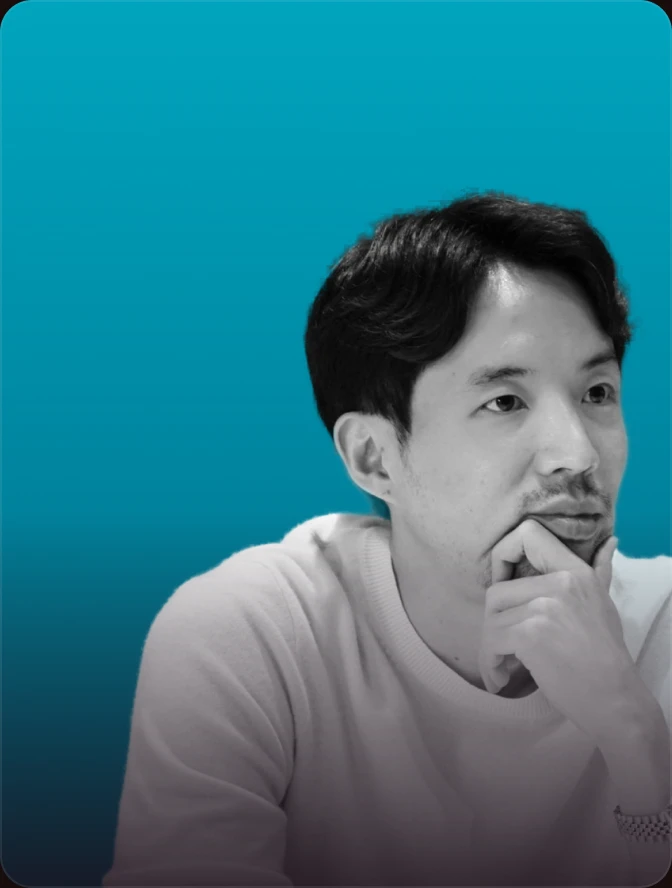
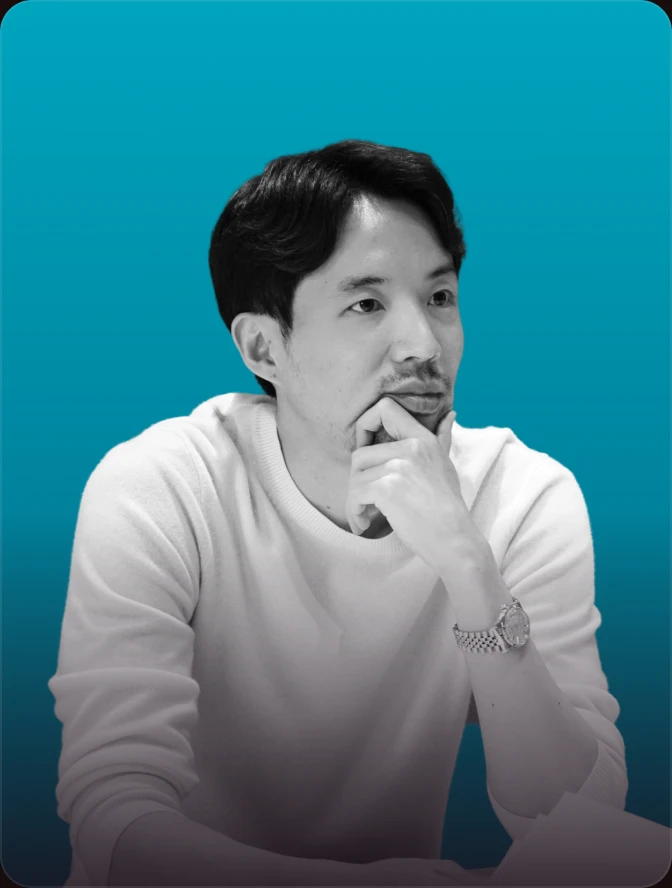
라인업: SMCC 북다이브·요가 카드 사진을 피그마 수정본으로
Claude-Session: https://claude.ai/code/session_01R7psaqm8m7GEAGGww3SgQz

diff --git a/index.html b/index.html
@@ -974,7 +974,7 @@ try{ if('scrollRestoration' in history) history.scrollRestoration='manual'; }cat
   const cardHTML=(r,clone)=>{ const ti=clone?' tabindex="-1" aria-hidden="true"':'';
     if(r[0]==='soon') return `<a class="l-card soon" href="${BOOKL}" target="_blank" rel="noopener"${ti}><div class="l-top"><span>LINEUP</span><b>COMING SOON</b></div><div class="soon-mid"><svg viewBox="0 0 24 24" width="44" height="44" aria-hidden="true"><path d="M12 1.5C12.7 7.4 16.6 11.3 22.5 12C16.6 12.7 12.7 16.6 12 22.5C11.3 16.6 7.4 12.7 1.5 12C7.4 11.3 11.3 7.4 12 1.5Z" fill="#fff"/></svg><h3>더 많은 연사가<br>곧 공개됩니다</h3></div><div class="l-bottom"><span class="l-book">롱진콘 신청하기 ↗</span></div></a>`;
     const [f,n,d,c,dt,t,[x,y,w]]=r;
-    return `<a class="l-card ${t}${r[8]?' duo':''}${n.includes(' · ')?' multi':''}" href="${f.startsWith('smcc_')?'#program':BOOKL}"${f.startsWith('smcc_')?'':' target="_blank" rel="noopener"'}${ti}><div class="l-type" aria-hidden="true"><span>${WORD[f][0]}</span><span>${WORD[f][1]}</span></div>${r[8]?`<img src="img/${r[8][0]}.webp?v=3" alt="" loading="lazy" style="left:${r[8][1]}%;top:${r[8][2]}%;width:${r[8][3]}%;filter:none">`:''}<img src="img/${f}.webp${f==='ceo_lu'?'?v=4':f.startsWith('smcc_')?'?v=2':(f==='trio_lu'||f==='woo_duo')?'?v=1':''}" alt="${clone?'':n}" loading="lazy" style="left:${x}%;top:${y}%;width:${w}%${(f==='ceo_lu'||f==='trio_lu'||f==='woo_duo'||f.startsWith('smcc_'))?';filter:none':''}">${r[8]?'<div style="position:absolute;left:-5.95%;top:66.89%;width:108.33%;height:36.71%;background:linear-gradient(rgba(14,46,90,0),#0E2E5A);pointer-events:none"></div>':''}${(f==='trio_lu'||f==='woo_duo'||f.startsWith('smcc_'))?'':'<div class="scrim"></div>'}<div class="l-top"><span>${c}</span><b>${dt}</b></div><div class="l-bottom"><h3>${n}</h3><p>${d}</p><span class="l-book">${f.startsWith('smcc_')?'SMCC 별도 모집':'예매하기 ↗'}</span></div></a>`; };
+    return `<a class="l-card ${t}${r[8]?' duo':''}${n.includes(' · ')?' multi':''}" href="${f.startsWith('smcc_')?'#program':BOOKL}"${f.startsWith('smcc_')?'':' target="_blank" rel="noopener"'}${ti}><div class="l-type" aria-hidden="true"><span>${WORD[f][0]}</span><span>${WORD[f][1]}</span></div>${r[8]?`<img src="img/${r[8][0]}.webp?v=3" alt="" loading="lazy" style="left:${r[8][1]}%;top:${r[8][2]}%;width:${r[8][3]}%;filter:none">`:''}<img src="img/${f}.webp${f==='ceo_lu'?'?v=4':f.startsWith('smcc_')?'?v=3':(f==='trio_lu'||f==='woo_duo')?'?v=1':''}" alt="${clone?'':n}" loading="lazy" style="left:${x}%;top:${y}%;width:${w}%${(f==='ceo_lu'||f==='trio_lu'||f==='woo_duo'||f.startsWith('smcc_'))?';filter:none':''}">${r[8]?'<div style="position:absolute;left:-5.95%;top:66.89%;width:108.33%;height:36.71%;background:linear-gradient(rgba(14,46,90,0),#0E2E5A);pointer-events:none"></div>':''}${(f==='trio_lu'||f==='woo_duo'||f.startsWith('smcc_'))?'':'<div class="scrim"></div>'}<div class="l-top"><span>${c}</span><b>${dt}</b></div><div class="l-bottom"><h3>${n}</h3><p>${d}</p><span class="l-book">${f.startsWith('smcc_')?'SMCC 별도 모집':'예매하기 ↗'}</span></div></a>`; };
   // 무한 루프: 같은 카드 세트를 앞·뒤로 한 벌씩 더 붙이고, 가운데 세트를 벗어나면 같은 위치의 가운데 카드로 몰래 점프
   rail.innerHTML=LV.map(c=>cardHTML(c,1)).join('')+LV.map(c=>cardHTML(c,0)).join('')+LV.map(c=>cardHTML(c,1)).join('');
   const cards=()=>rail.querySelectorAll('.l-card');
